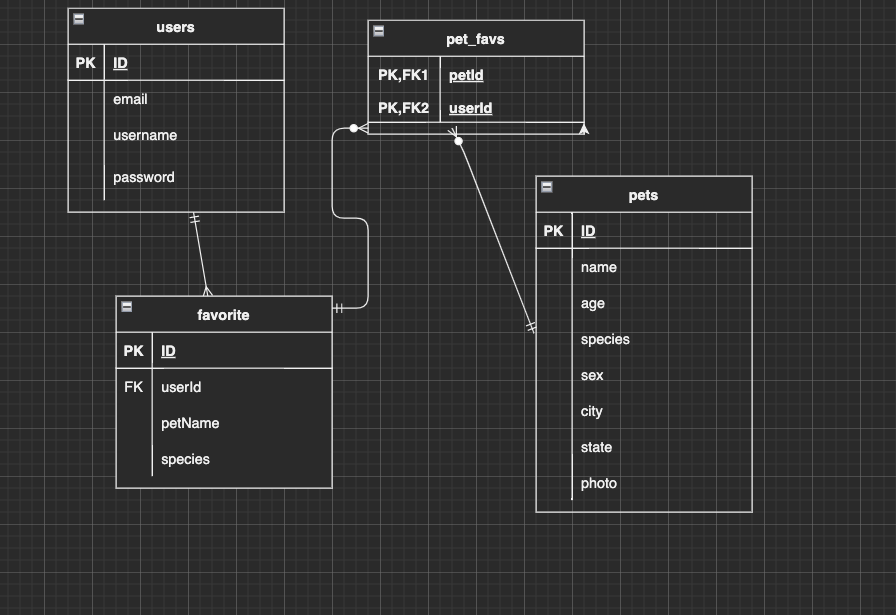
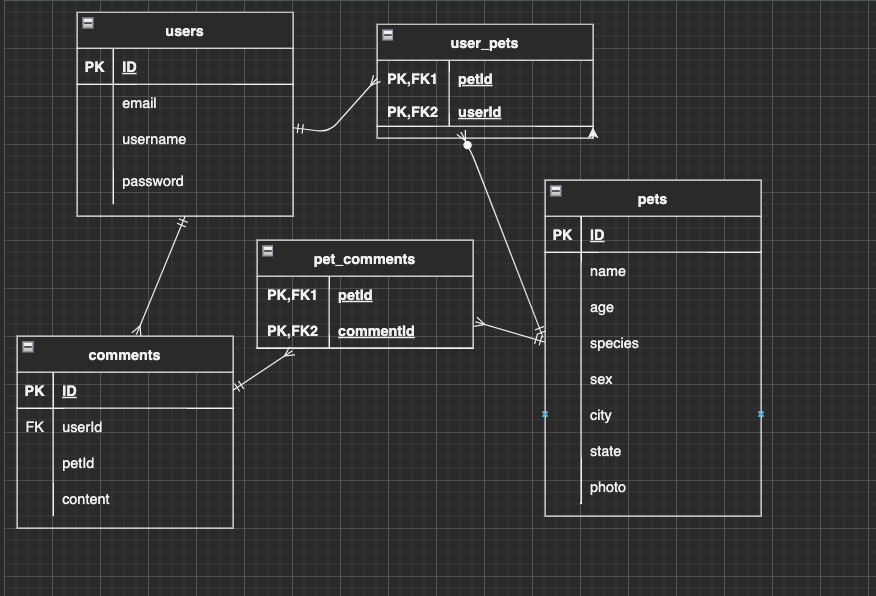
updates erd

diff --git a/controllers/users.js b/controllers/users.js
@@ -3,6 +3,7 @@ const router = express.Router()
 const db = require('../models')
 const cryptoJS = require('crypto-js')
 const bcrypt = require('bcryptjs')
+const { default: axios } = require('axios')
 
 // GET /users/new -- renders a form to create a new user
 router.get('/new', (req, res) => {

diff --git a/scratch-pad.md b/scratch-pad.md
@@ -3,3 +3,14 @@ table: users
 email:VARCHAR(255)
 password: VARCHAR(255)
 sequelize model:create --name user --attributes email:string,password:string
+
+table: pets
+
+name:VARCHAR(255)
+age:INTEGER
+species:VARCHAR(255)
+sex:VARCHAR(255)
+city:VARCHAR(255)
+state:VARCHAR(255)
+photo:VARCHAR(255)
+sequelize model:create --name pet --attributes name:string,age:integer,species:string,sex:string,city:string,state:string,photo:string
